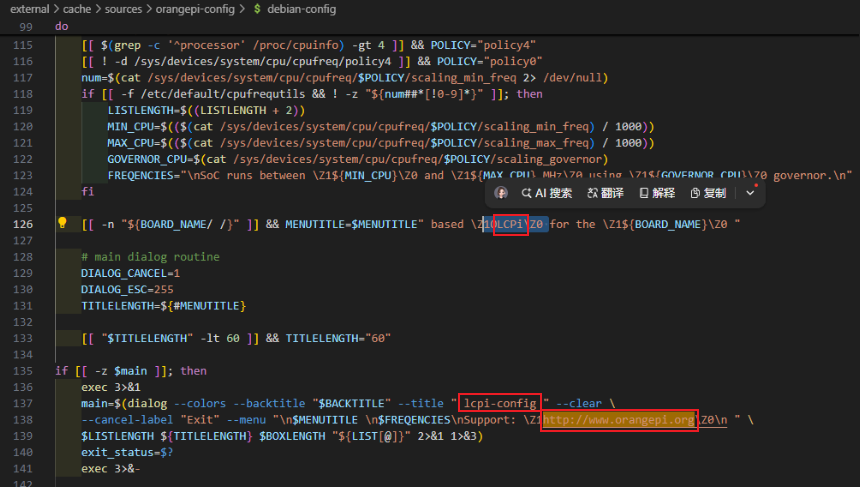
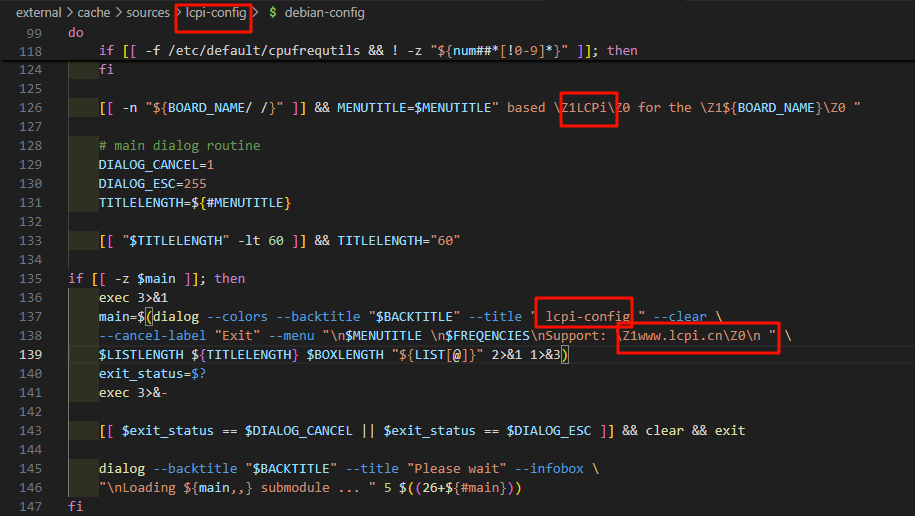
重新走一边编译

Changed region(s): [[0.0, 0.0, 0.9977, 1.0]]

diff --git a/Node-RED_note/Node-RED笔记.md b/Node-RED_note/Node-RED笔记.md
@@ -1,4 +1,8 @@
 # Node-RED笔记
+# 启动NodeRed
+![alt text](image-70.png)
+打开http://localhost:1880即可启用
+
 ```python
 let arr = msg.topic.split('/');
 // 更新 msg.topic
